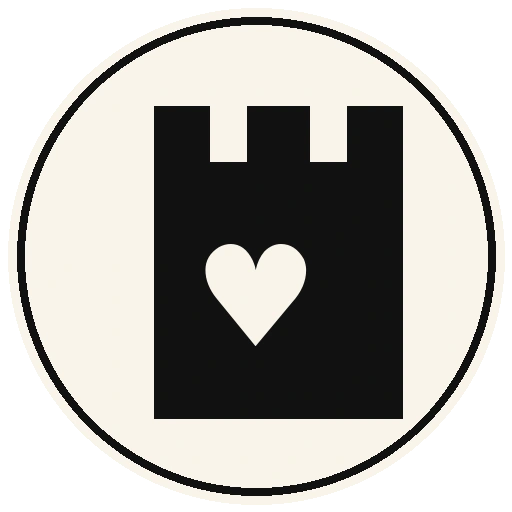
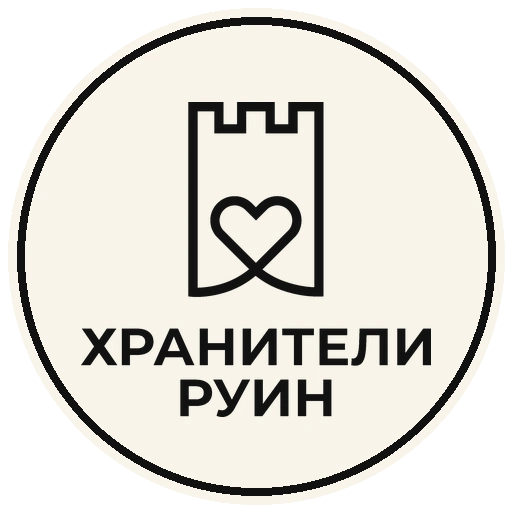
Fix source-faithful venue medallions

Changed region(s): [[0.1562, 0.1875, 0.8438, 0.8438]]

diff --git a/site/src/assets/organizers/source/README.md b/site/src/assets/organizers/source/README.md
@@ -1,6 +1,6 @@
 # Organizer medallion source assets
 
-Retrieved: 2026-06-29; `dom-kitoboya` social avatar rechecked 2026-07-01; SVG/WebP runtime pass checked 2026-07-02; venue gap medallions added 2026-07-03; venue visual tuning/WebP contract pass added 2026-07-04; seven-item Gemini/QA repair pass added 2026-07-04.
+Retrieved: 2026-06-29; `dom-kitoboya` social avatar rechecked 2026-07-01; SVG/WebP runtime pass checked 2026-07-02; venue gap medallions added 2026-07-03; venue visual tuning/WebP contract pass added 2026-07-04; seven-item Gemini/QA repair pass added 2026-07-04; source-faithfulness rereview repairs for City Jazz/Signal/Locostandup/Art Museum/Ruin Keepers added 2026-07-04.
 
 These files are official/source-faithful inputs for the first event-page organizer medallions. Final runtime assets live in `site/public/assets/organizers/`.
 
@@ -21,15 +21,15 @@ These files are official/source-faithful inputs for the first event-page organiz
 | `dramteatr39` | Калининградский драматический театр | https://dramteatr39.ru/ | https://dramteatr39.ru/img/logo.svg?v=2 | `/assets/organizers/dramteatr39.svg` | Официальный горизонтальный SVG масштабирован и обрезан кругом до левого театрального знака; фон сделан фирменно-тёмным для белого исходника. |
 | `muzteatr39` | Калининградский музыкальный театр | https://muzteatr39.ru/ | https://muzteatr39.ru/wp-content/uploads/image_theme/logo2.png | `/assets/organizers/muzteatr39.webp` (`.png` fallback) | Официальный квадратный PNG пересобран как WebP-primary медальон без трассировки; фон затемнён для контраста белого знака. |
 | `dom-iskusstv` | Калининградский театр эстрады / Дом искусств | https://домискусств39.рф/ | https://static.tildacdn.com/tild3965-6438-4135-a233-383865633034/svg.svg | `/assets/organizers/dom-iskusstv.svg` | Официальный Tilda SVG wordmark Театра эстрады/Дома искусств встроен в круглый медальон. |
-| `city-jazz-club` | Калининград Сити Джаз Клуб | https://londonpub.ru/cityjazz/events | https://static.tildacdn.com/tild6331-6539-4430-a531-343262333939/logojazz.png (`recheck-20260704/city-jazz-club.official-logojazz.png`) | `/assets/organizers/city-jazz-club.svg` (+ PNG QA fallback) | Низкое разрешение official Tilda PNG больше не масштабируется как runtime raster: круглый знак вручную пересобран в crisp SVG с золотым диском, центральным якорным знаком и крупной читаемой подписью CITY JAZZ; это отдельный venue-medallion, не фестивальный Kaliningrad City Jazz. |
+| `city-jazz-club` | Калининград Сити Джаз Клуб | https://londonpub.ru/cityjazz/events | https://static.tildacdn.com/tild6331-6539-4430-a531-343262333939/logojazz.png (`recheck-20260704/city-jazz-club.official-logojazz.png`) | `/assets/organizers/city-jazz-club.webp` (`.png` fallback) | Ручная SVG-перерисовка отклонена как исказившая реальный логотип клуба; runtime WebP-first сохраняет официальный PNG с круглым знаком и фирменной подписью без invented `CITY JAZZ CLUB` lockup. |
 | `rostec-arena` | Ростех Арена | https://www.rostec-arena.ru/ | https://www.rostec-arena.ru/theme/src/logo.svg (`recheck-20260704/rostec-arena.official-logo.svg`) | `/assets/organizers/rostec-arena.svg` (+ PNG QA fallback) | Официальный SVG-логотип сайта встроен без ручной перерисовки: сохранены фирменные голубые полосы и белый wordmark на синем градиентном круге. |
 | `bar-bastion` | Бар Бастион | https://vk.com/bar_bastion | public VK avatar `bar-bastion.vk-avatar-20260704.jpg` | `/assets/organizers/bar-bastion.webp` (`.png` fallback) | VK-аватар маскируется во внутренний круг, а золотая бренд-обводка рисуется последней; разрывы окружности от квадратного overlay устранены. |
-| `signal` | Сигнал | https://t.me/signalkld + https://signalcommunity.timepad.ru/ | Telegram avatar `recheck-20260704/signal.telegram-avatar-20260704.jpg`; Timepad `logo_org_265887.jpg` | `/assets/organizers/signal.svg` (+ PNG/WebP QA fallback) | Убран белый прямоугольник внутри тёмного круга; овальный знак «СИГНАЛ» аккуратно реконструирован как чистый SVG на белом круге; внутренние oval-strokes убраны, чтобы не было пересечений с текстом; без edge-trace shortcut. |
+| `signal` | Сигнал | https://t.me/signalkld + https://signalcommunity.timepad.ru/ | Telegram avatar `recheck-20260704/signal.telegram-avatar-20260704.jpg`; Timepad `logo_org_265887.jpg` | `/assets/organizers/signal.webp` (`.png` fallback) | SVG-наборный вариант отклонён: он потерял фирменный овал и подменил шрифт. Runtime WebP-first сохраняет официальный овальный знак, двойные oval-strokes и исходное положение нижней подписи. |
 | `mumod` | Музей курортной моды | https://mumod.ru/ | https://mumod.ru/wp-content/themes/mumod/images/logo.svg | `/assets/organizers/mumod.svg` | Официальный SVG-логотип с сайта музея встроен в светлый круглый медальон. |
 | `kldzoo` | Калининградский зоопарк | https://kldzoo.ru/ | https://kldzoo.ru/local/templates/s1/img/logo.png | `/assets/organizers/kldzoo.webp` (`.png` fallback) | Официальный квадратный PNG увеличен и отдаётся WebP-primary; внешняя салатовая обводка заменена на нейтральную. |
-| `locostandup` | Стендап-клуб «Локация» | https://locostandup.ru/ | https://img3.creatium.ru/disk2/ee/53/e9/5338346aed3353ce0b7a71e35231aeda9e/lokaciya.svg (`recheck-20260704/locostandup.official-logo.svg`) | `/assets/organizers/locostandup.svg` (+ PNG/WebP QA fallback) | Telegram microphone avatar replaced by the official site vector wordmark; light circle + red brand ring removes the unfinished square/ring crop. |
-| `kaliningrad-art-museum` | Калининградский музей изобразительных искусств | https://www.kaliningradartmuseum.ru/ | homepage inline SVG `recheck-20260704/kaliningrad-art-museum.official-inline-logo.svg`; footer PNG still kept as source | `/assets/organizers/kaliningrad-art-museum.svg` (+ PNG QA fallback) | Фон заменён на официальный бордовый `#871B30` из SVG/CSS сайта; медальон стал SVG с официальным знаком сверху и читаемой короткой подписью `МУЗЕЙ ИЗО`. |
+| `locostandup` | Стендап-клуб «Локация» | https://locostandup.ru/ | https://img3.creatium.ru/disk2/ee/53/e9/5338346aed3353ce0b7a71e35231aeda9e/lokaciya.svg (`recheck-20260704/locostandup.official-logo.svg`) | `/assets/organizers/locostandup.svg` (+ PNG/WebP QA fallback) | Официальный site SVG wordmark сохранён в круглом медальоне; добавленная ранее подпись `СТЕНДАП-КЛУБ` удалена, а кольцо сделано нейтральным серым в тон wordmark, чтобы контекстный акцент не выглядел частью логотипа. |
+| `kaliningrad-art-museum` | Калининградский музей изобразительных искусств | https://www.kaliningradartmuseum.ru/ | homepage inline SVG `recheck-20260704/kaliningrad-art-museum.official-inline-logo.svg`; footer PNG still kept as source | `/assets/organizers/kaliningrad-art-museum.svg` (+ PNG/WebP QA fallback) | Фон — официальный бордовый `#871B30`; аббревиатура `ИЗО` удалена, под официальным знаком размещена крупная читаемая подпись `МУЗЕЙ ИСКУССТВ`. |
 | `brachert` | Дом-музей Германа Брахерта | https://hbrachert.ru/ | https://hbrachert.ru/bitrix/templates/brachert/images/logo-br.png | `/assets/organizers/brachert.webp` (`.png` fallback) | Официальный PNG-логотип hbrachert.ru отдаётся WebP-primary. |
-| `ruin-keepers` | Хранители руин | https://ruin-keepers.ru/ | official 1-bit PNG logo `recheck-20260704/ruin-keepers.official-logo.png` | `/assets/organizers/ruin-keepers.svg` (+ PNG/WebP QA fallback) | Traced вариант отклонён на QA как недоделанный; знак вручную пересобран как чистый SVG по официальному мотиву башни/сердца: замкнутая башня и сердце без грубых пересечений. |
+| `ruin-keepers` | Хранители руин | https://ruin-keepers.ru/ | official 1-bit PNG logo `recheck-20260704/ruin-keepers.official-logo.png` | `/assets/organizers/ruin-keepers.webp` (`.png` fallback) | Ручной filled-tower SVG отклонён как не похожий на знак; runtime WebP-first сохраняет официальный outline tower/heart и wordmark `Хранители руин` из 1-bit PNG. |
 
 No OpenAI image generation/editing was used. The medallions were produced by local SVG rendering/vectorization, official SVG wrapping, source cropping/recomposition, and PNG fallback export. If no SVG source/vector-safe source exists, browser-facing runtime assets should be WebP-first, with PNG only as fallback/QA; old public JPG/SVG-container raster medallions are not kept as primary runtime assets.

diff --git a/docs/features/static-site-pages/event-token-medallions.md b/docs/features/static-site-pages/event-token-medallions.md
@@ -166,16 +166,16 @@ Asset inventory:
 | `dramteatr39` | Калининградский драматический театр | `/assets/organizers/dramteatr39.svg` | official `dramteatr39.ru/img/logo.svg`, scaled/cropped to the left emblem |
 | `muzteatr39` | Калининградский музыкальный театр | `/assets/organizers/muzteatr39.webp` (`.png` fallback) | official square PNG, WebP-primary raster medallion, no tracing |
 | `dom-iskusstv` | Театр эстрады / Дом искусств | `/assets/organizers/dom-iskusstv.svg` | official Tilda SVG wordmark from `домискусств39.рф` |
-| `city-jazz-club` | Калининград Сити Джаз Клуб | `/assets/organizers/city-jazz-club.svg` | club logo from `londonpub.ru/cityjazz/events`, manually rebuilt as crisp vector with large readable CITY JAZZ lettering, separate from festival medallion |
+| `city-jazz-club` | Калининград Сити Джаз Клуб | `/assets/organizers/city-jazz-club.webp` (`.png` fallback) | official low-res `logojazz.png` from `londonpub.ru/cityjazz/events`; WebP-first source-faithful crop after manual SVG redraw was rejected as logo distortion |
 | `rostec-arena` | Ростех Арена | `/assets/organizers/rostec-arena.svg` | official site SVG `/theme/src/logo.svg` wrapped into the medallion; no Telegram-avatar redraw |
 | `bar-bastion` | Бар Бастион | `/assets/organizers/bar-bastion.webp` (`.png` fallback) | public VK avatar extracted on 2026-07-04; inner avatar mask and ring-on-top repair remove broken-circle artifacts |
-| `signal` | Сигнал | `/assets/organizers/signal.svg` | clean SVG reconstruction from the official Signal oval logo; internal oval strokes were removed so nothing crosses the wordmark |
+| `signal` | Сигнал | `/assets/organizers/signal.webp` (`.png` fallback) | official Telegram/Timepad oval logo preserved as WebP-first raster; previous typeset SVG was rejected because it lost the oval and shifted the caption |
 | `mumod` | Музей курортной моды | `/assets/organizers/mumod.svg` | official SVG from `mumod.ru` |
 | `kldzoo` | Калининградский зоопарк | `/assets/organizers/kldzoo.webp` (`.png` fallback) | official square PNG from `kldzoo.ru`, enlarged and WebP-primary |
-| `locostandup` | Стендап-клуб «Локация» | `/assets/organizers/locostandup.svg` | official vector wordmark from `locostandup.ru`, replacing the unfinished Telegram-avatar crop |
-| `kaliningrad-art-museum` | Калининградский музей изобразительных искусств | `/assets/organizers/kaliningrad-art-museum.svg` | official inline SVG mark on brand burgundy `#871B30`, with readable short label `МУЗЕЙ ИЗО` |
+| `locostandup` | Стендап-клуб «Локация» | `/assets/organizers/locostandup.svg` | official vector wordmark from `locostandup.ru`; medallion wrapper no longer adds a non-logo subtitle |
+| `kaliningrad-art-museum` | Калининградский музей изобразительных искусств | `/assets/organizers/kaliningrad-art-museum.svg` | official inline SVG mark on brand burgundy `#871B30`, with readable `МУЗЕЙ ИСКУССТВ` label instead of the rejected abbreviation `ИЗО` |
 | `brachert` | Дом-музей Германа Брахерта | `/assets/organizers/brachert.webp` (`.png` fallback) | official PNG from `hbrachert.ru`, WebP-primary raster medallion |
-| `ruin-keepers` | Хранители руин | `/assets/organizers/ruin-keepers.svg` | clean manual SVG reconstruction from the official `ruin-keepers.ru` tower/heart motif after traced SVG QA was rejected |
+| `ruin-keepers` | Хранители руин | `/assets/organizers/ruin-keepers.webp` (`.png` fallback) | official 1-bit PNG logo from `ruin-keepers.ru`, WebP-first after manual SVG silhouettes were rejected as non-source-faithful |
 
 2026-07-04 venue visual tuning pass:
 
@@ -184,6 +184,13 @@ Asset inventory:
 - `bar-bastion` keeps the public VK avatar but masks the image before drawing the gold ring, so the circle no longer breaks;
 - `mumod`, `kldzoo` and earlier `kaliningrad-art-museum` sizing fixes remain from the preceding visual tuning pass;
 - runtime contract was tightened: raster/non-vector medallions in organizer/festival manifests are served as WebP primary with PNG fallback, while SVG runtime is reserved for true vector/manual-vector/official-SVG marks.
+
+
+2026-07-04 source-faithfulness rereview:
+
+- `city-jazz-club`, `signal` and `ruin-keepers` were switched from overconfident manual SVG redraws to WebP-first source-faithful medallions with PNG fallback: the manual SVGs distorted or redesigned the official logos.
+- `locostandup` keeps the official site SVG wordmark; the added contextual `СТЕНДАП-КЛУБ` subtitle was removed from the artwork.
+- `kaliningrad-art-museum` keeps the official burgundy/mark but no longer writes the rejected abbreviation `ИЗО`; the visible text is a readable `МУЗЕЙ ИСКУССТВ` label arranged inside the circle.
 
 ### Festival logo medallions
 
